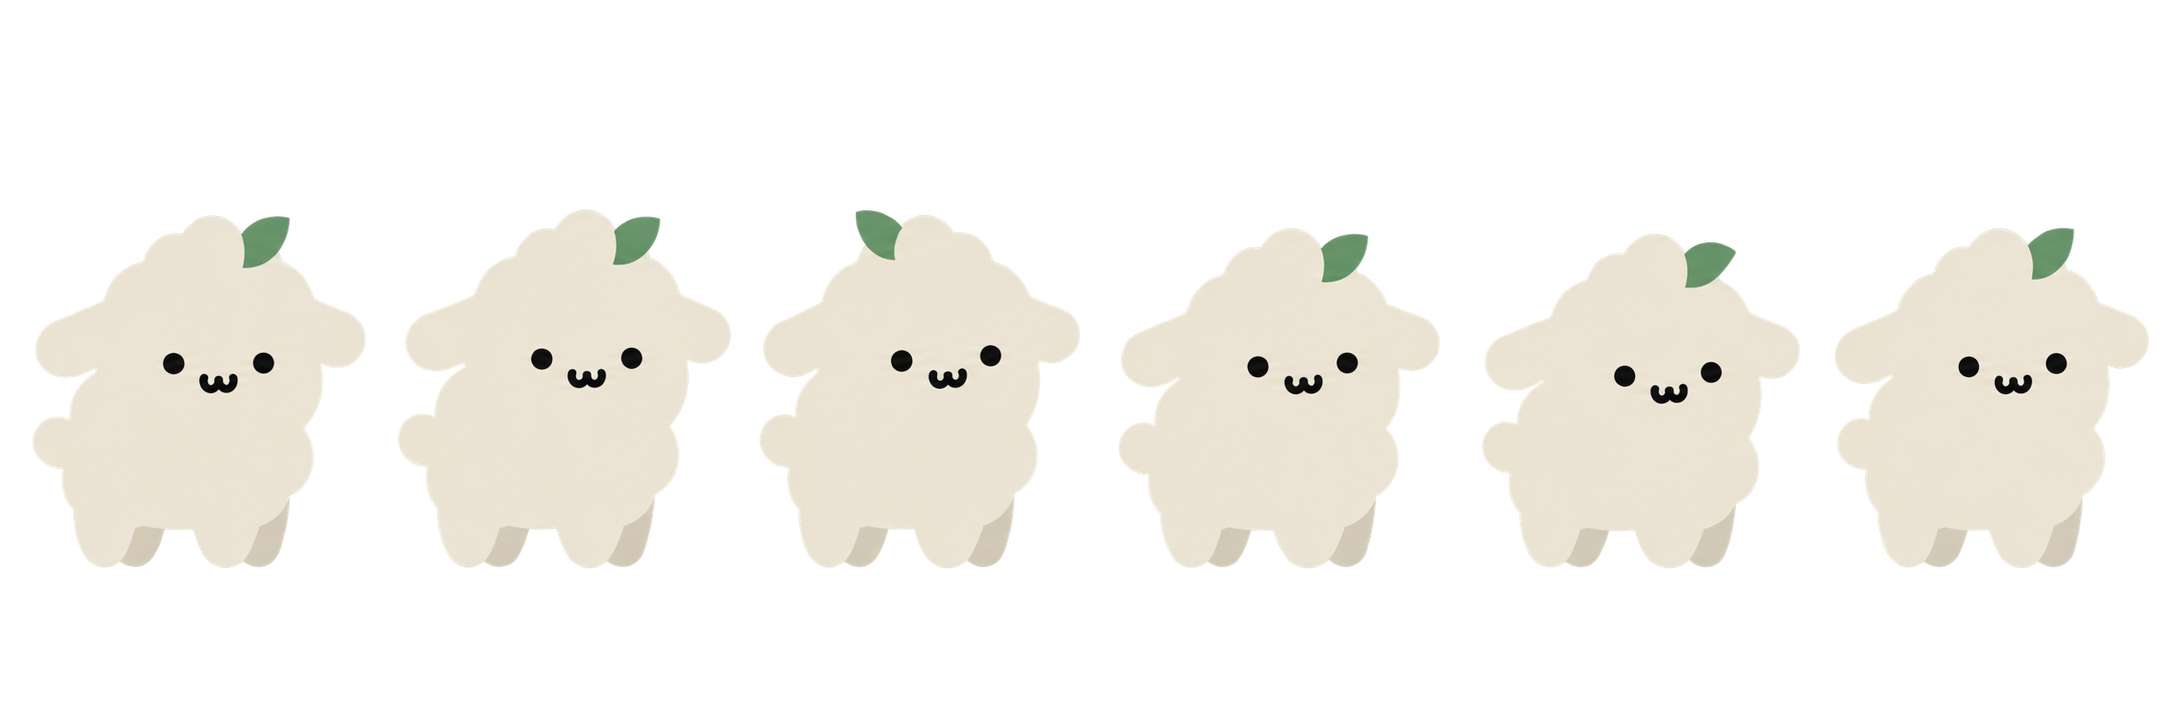
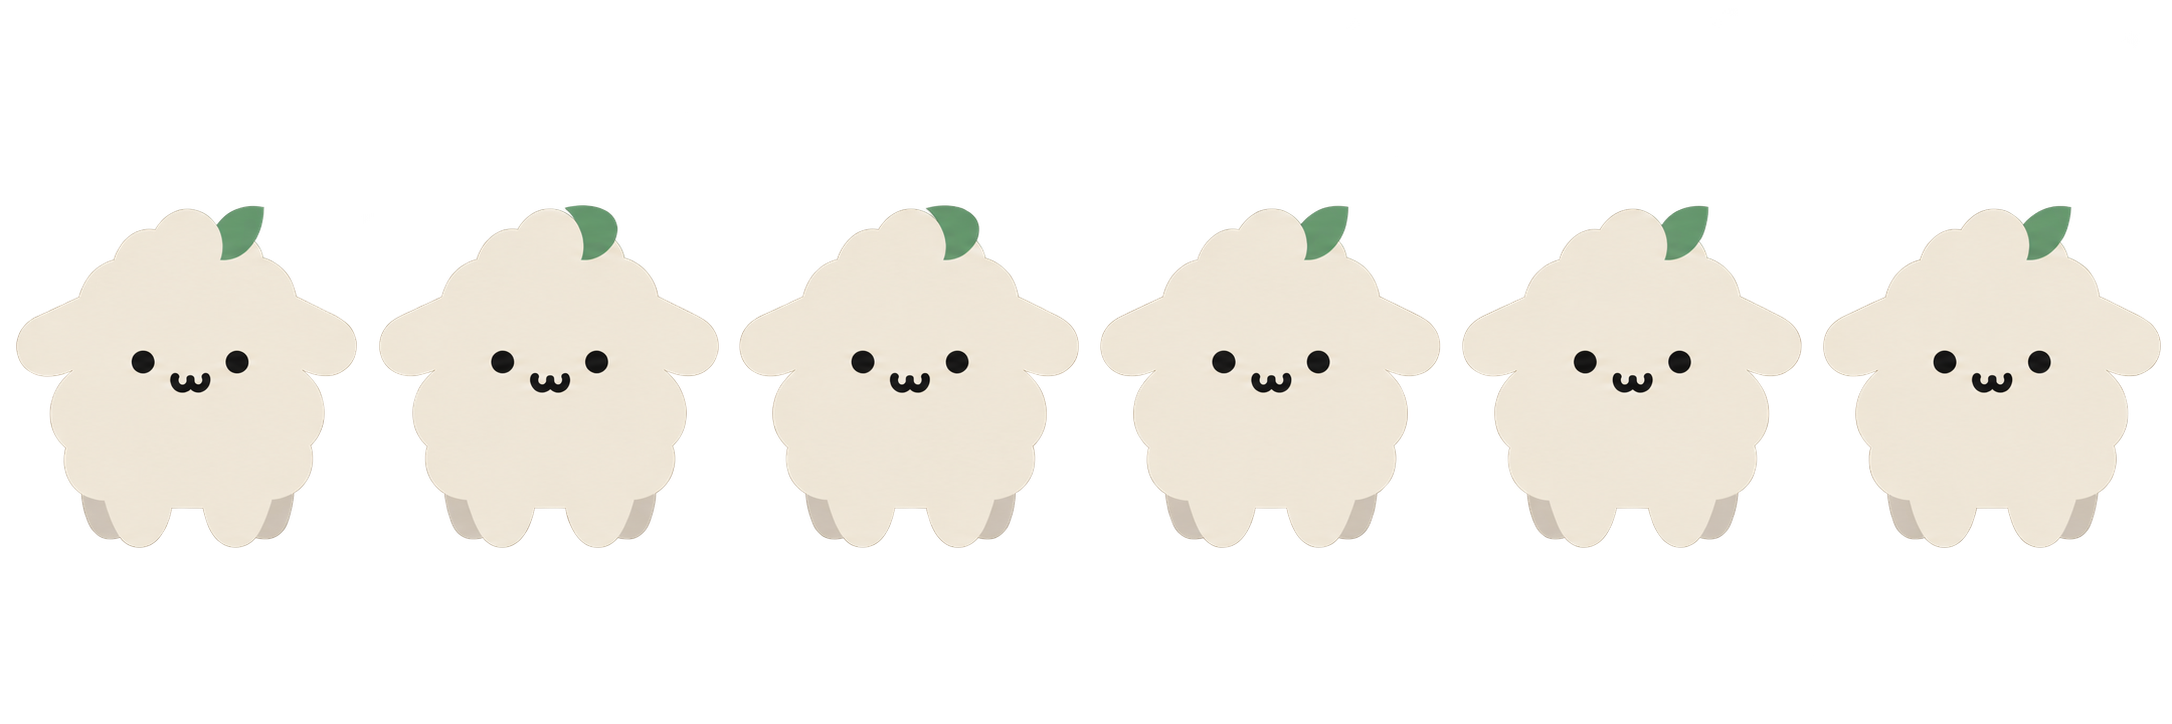
小綿助 v3 動作圖 redo1：重做五組動畫

diff --git a/assets/pet/v3/DELIVERY.md b/assets/pet/v3/DELIVERY.md
@@ -1,3 +1,57 @@
+# 重做 redo1（2026-09-28）
+
+分支 `codex/pet-sprites-v3-redo1`。依本次更新後的 `spec.json` 重生 idle、drag、sleep、warning、greet，共 34 格。使用原有 `reference/sheep_ref.png`、內建 image_gen 與現有 normalize_raw.py。未修改任何程式、spec 或驗收工具；其他六組 raw／sheets 保持原樣。
+
+## 修改與檢視結果
+
+| 動作 | 格數 | 結果 | 重做內容及檢視 |
+|---|---:|---|---|
+| idle | 6 | PASS | 葉根全程在畫面右側，只彎葉尖。第二次生成後奶油色輪廓外框高度六格皆 382 px、寬度 379～383 px，外框寬差約 1.06%、高差 0%；頭部比例與眼睛位置目視穩定。 |
+| drag | 6 | PASS | 恢復圓頭和短圓雲朵毛，不再尖錐；圓口、垂腳與左右擺動。第一稿多畫人手已淘汰，第二稿第 3 格葉片換側，經 image_gen 修正後六格固定同側。 |
+| sleep | 6 | PASS | 改為側躺的圓毛球，臉靠右下、腳完全收進毛裡，閉眼彎線、緩慢呼吸；沒有 z 或任何字母。 |
+| warning | 8 | PASS | 全程正面、淺跳。奶油色身體外框第 1／8 格高 319 px，第 3／7 格高 301／304 px，蹲姿約 94.4%／95.3%，高於 85%。落地底線 y=488、最高騰空底線約 y=459；驚嘆號貼近毛頂。沒有 WARN。 |
+| greet | 8 | PASS | 固定自身左前腳（畫面右側）揮動，另一側維持放下。太陽從毛後露出後逐格升高，八格都可見；金色區域頂端 y 約為 148、141、127、109、99、89、75、65，沒有中途突然出現或消失。 |
+
+已讀取五個 `_preview/*.gif` 的全部 34 格，透過現有工具解碼為逐格接觸表，以眼睛檢視頭形、腳的位置、葉片、側躺、正面方向及太陽連續位置；並檢查最終 `_preview/overview.png`。屬逐格動畫檢視，未宣稱在桌寵程式中實播。GIF 時間量化沿用原工具，drag 的 125 ms 在 GIF 中為 120 ms；spec 未改。
+
+「輪廓小於 3%」量測以排除綠葉／黑臉後的奶油色身體外框長寬為依據，不等同逐像素輪廓距離。結果加上逐格目視支持小幅呼吸；未藉逐格縮放或複製格子湊數。
+
+## 原圖留存與重現
+
+舊的五張原圖已按要求移至 `raw/rejected/<動作>-v1.png`，新的原圖在 `raw/<動作>.png`。redo1 未採用的稿件另存 `idle-redo1-attempt1.png`、`drag-redo1-attempt1.png`、`drag-redo1-attempt2.png`，沒有覆寫舊備份。
+
+每次生成都使用更新後的 action prompt 與 common_prompt 的角色、透明底、單橫排、無字、無洋紅限制。補充提示：idle 固定頭高及眼睛 y；drag 隱形提起、不畫人手且禁止尖毛；sleep 明確側躺而非坐姿；warning 固定正面及 95% 蹲高；greet 明確自身左腳對應畫面右側並指定太陽每格上升。最終 idle 與 drag 使用 image_gen 參考編輯改善，不使用程式繪製／變形角色。
+
+```sh
+python assets/pet/v3/normalize_raw.py --only idle drag sleep warning greet
+python assets/pet/v3/check_sprites.py --only idle drag sleep warning greet --preview
+```
+
+## 需要老師重生的圖（redo1）
+
+本次五項動作修正均已可辨識，沒有尚未處理的指定動作問題。仍有生成式圖片的微小輪廓差異，並非數學上逐像素相同。greet 的細小太陽光芒經現有清理程式去雜點後大多消失，成為金色圓太陽，最後一格仍有短光芒；上升動作與同手揮動正確，若要求光芒也完全一致，建議日後重生提示指定「solid gold sun disk without detached rays」。未為此修改清理程式。舊版下方的待重生清單保留作歷史，這五張以上方 redo1 結果為準。
+
+## check_sprites 完整輸出（redo1）
+
+命令：`python assets/pet/v3/check_sprites.py --only idle drag sleep warning greet --preview`。退出碼 0；5 PASS、0 WARN、0 FAIL。Pillow 的 API 淘汰提示不是 sprite WARN。
+
+```text
+C:\Users\cona0\Desktop\teacher-dashboard-repo\assets\pet\v3\check_sprites.py:80: DeprecationWarning: Image.Image.getdata is deprecated and will be removed in Pillow 14 (2027-10-15). Use get_flattened_data instead.
+  magenta = sum(1 for r, g, b, a in fr.getdata() if a >= 32 and is_magenta(r, g, b))
+[PASS] idle（6 格）
+[PASS] drag（6 格）
+[PASS] sleep（6 格）
+[PASS] warning（8 格）
+[PASS] greet（8 格）
+預覽：C:\Users\cona0\Desktop\teacher-dashboard-repo\assets\pet\v3\_preview\overview.png
+
+結果：5/5 通過
+```
+
+僅更新指定五張 sheets、其 raw／備份與本文件。無應用程式、資料契約、權限、安裝或部署變更。未 push、未合併。
+
+---
+
 # 交件說明：phase 1（2026-09-28）
 
 分支：`codex/pet-sprites-v3-phase1`。本次只交圖與整理工具，不接桌寵程式。
